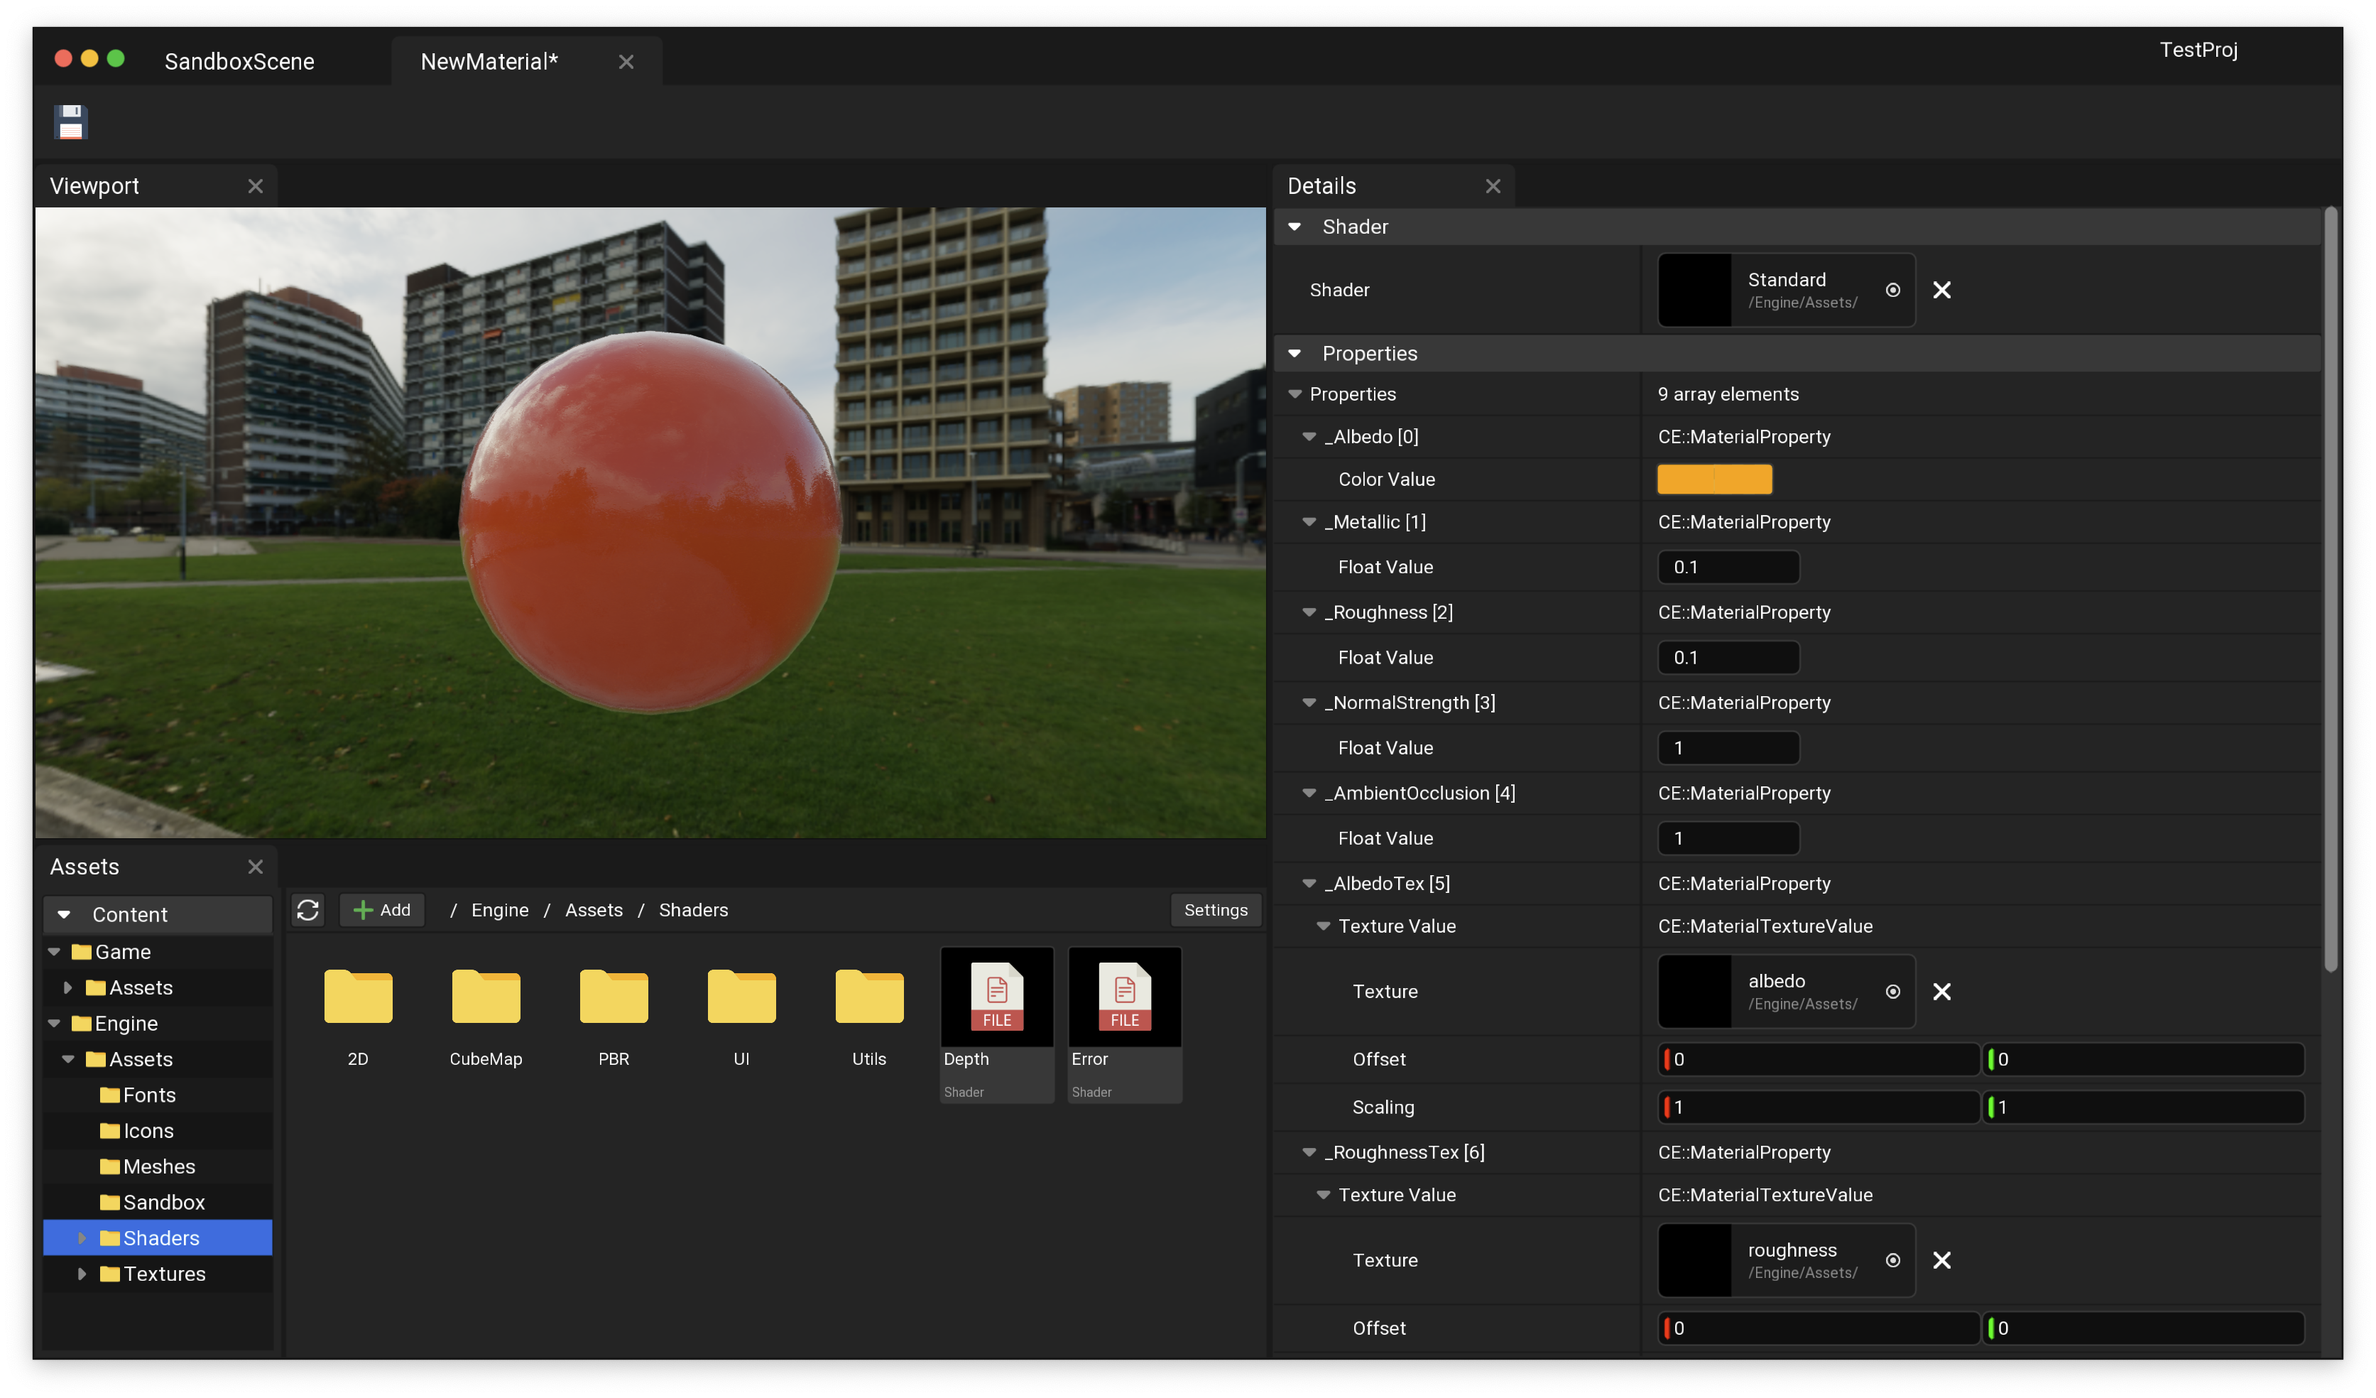
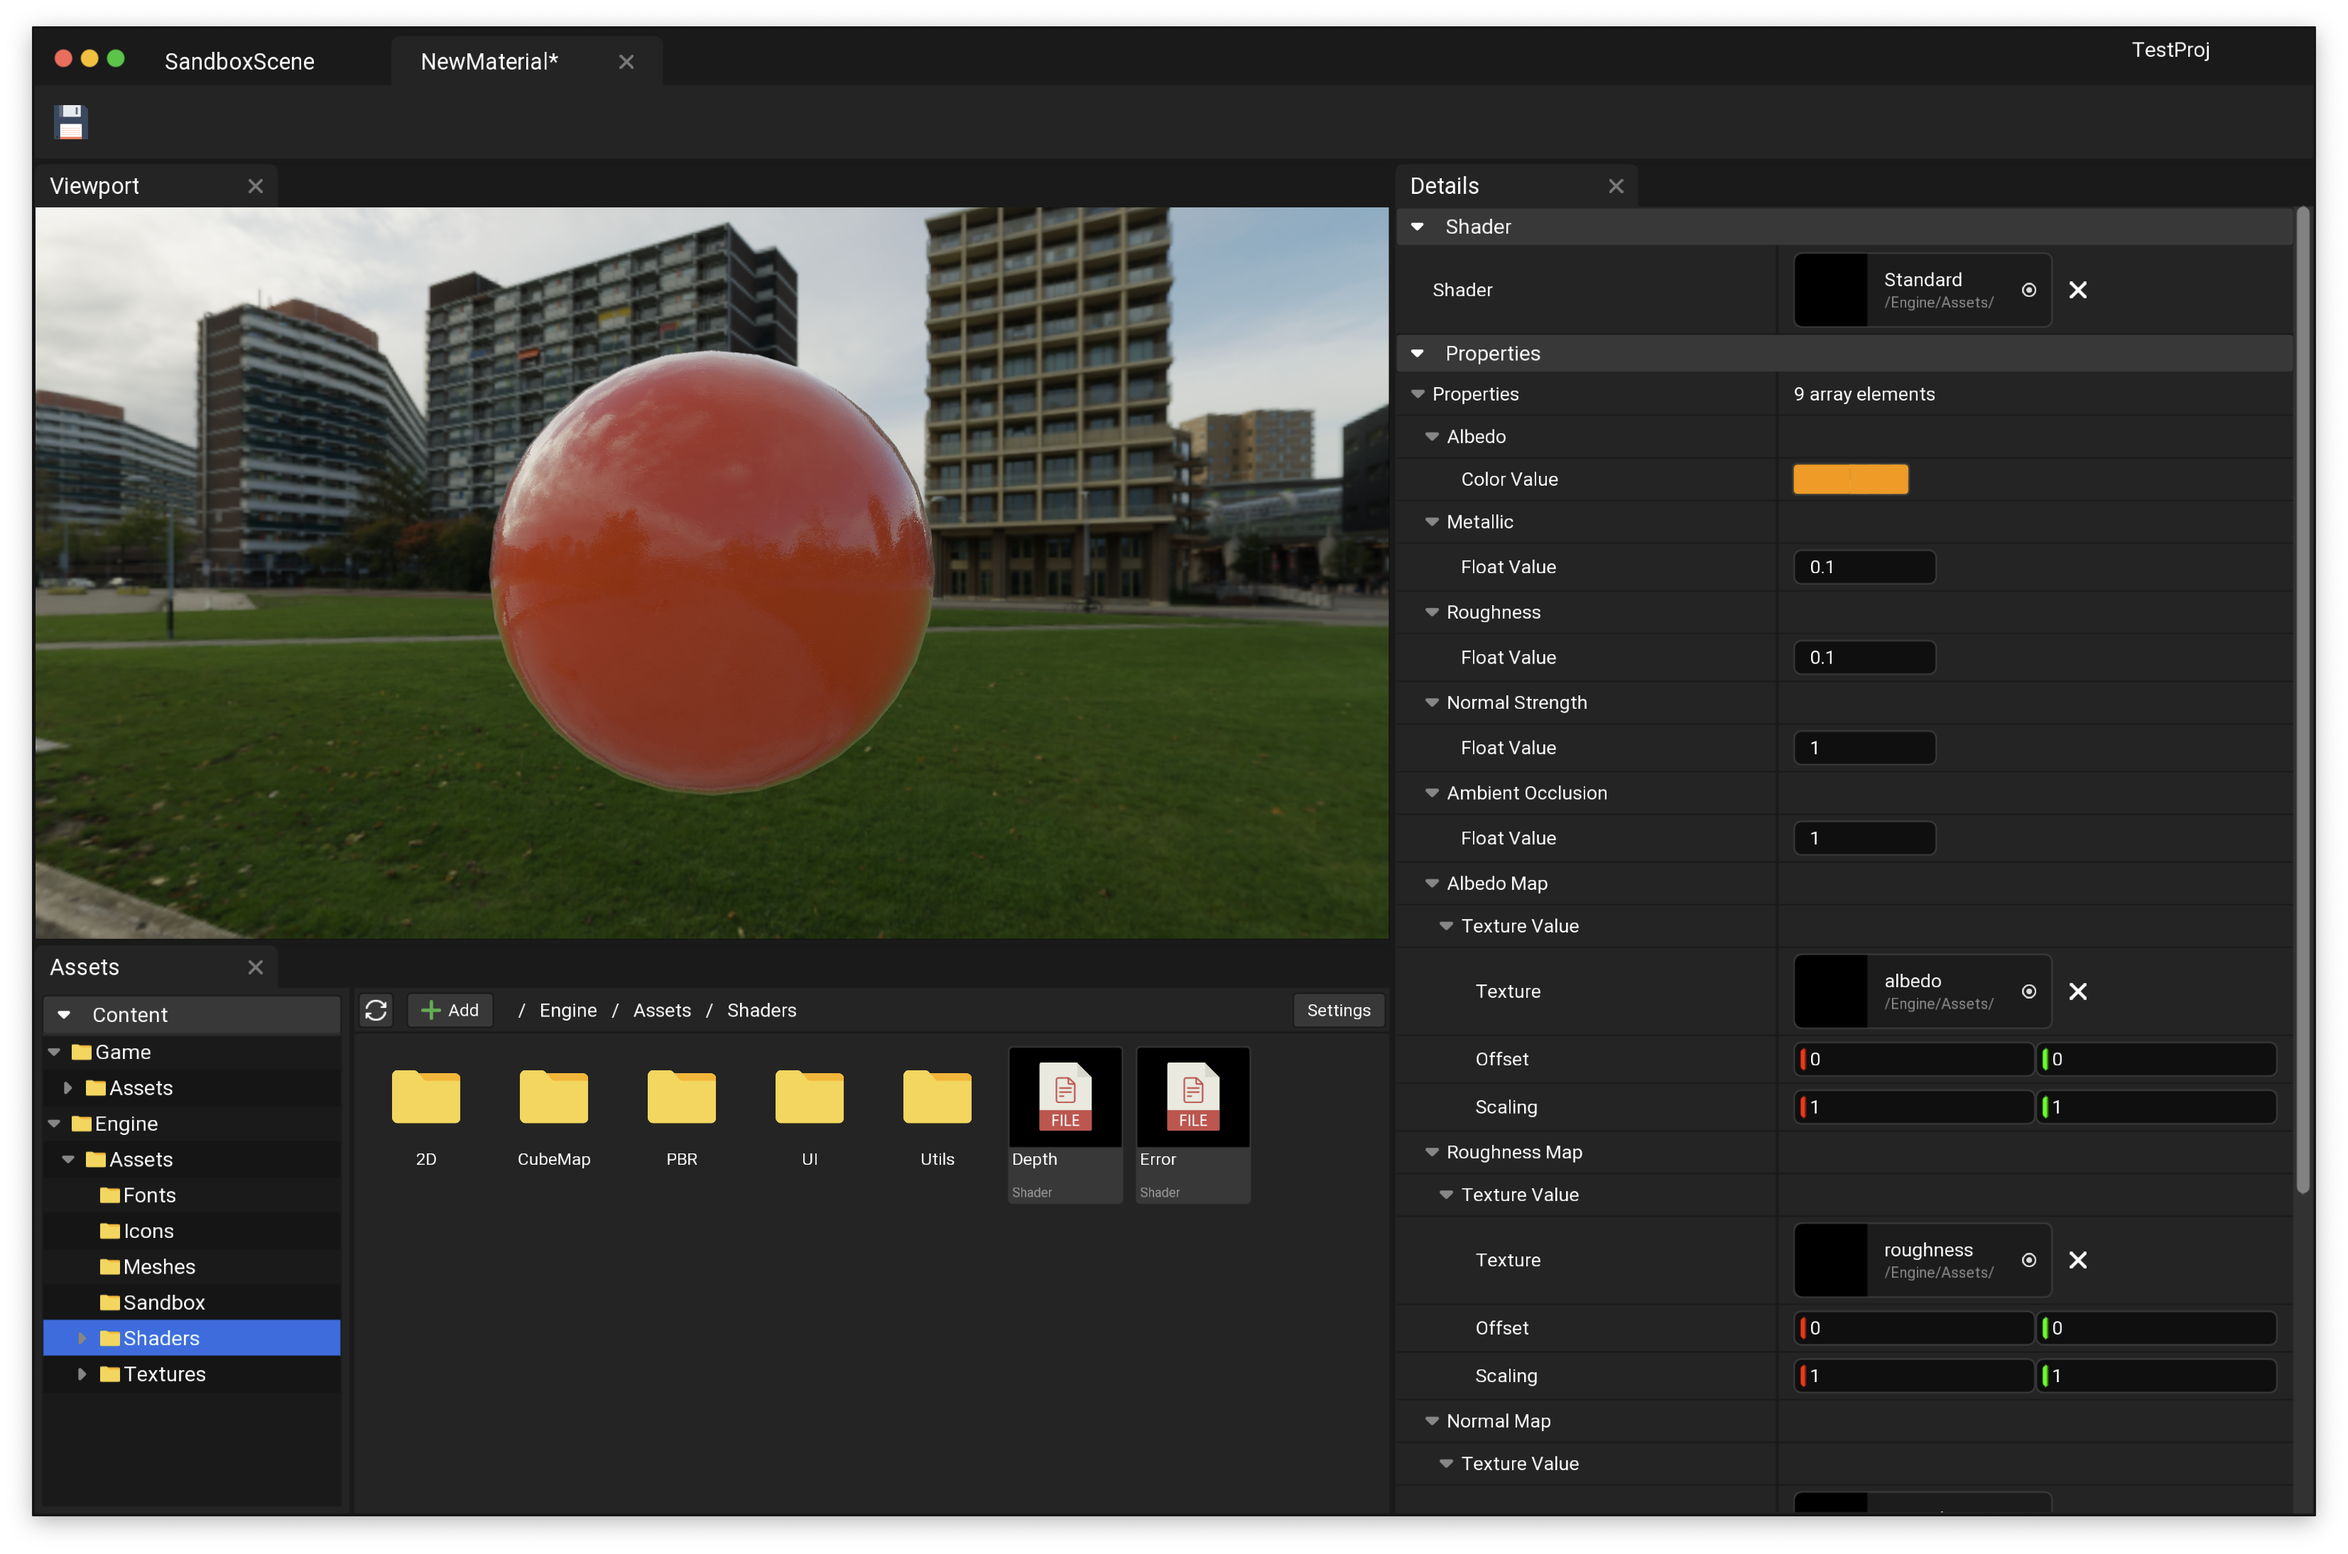
material editor improvements

diff --git a/Editor/Source/EditorCore/Private/Fusion/PropertyEditor/PropertyEditor.cpp b/Editor/Source/EditorCore/Private/Fusion/PropertyEditor/PropertyEditor.cpp
@@ -312,6 +312,17 @@ namespace CE::Editor
             return;
         }
 
+        if (field->HasAttribute("StructTypeName") && field->GetAttribute("StructTypeName").IsString())
+        {
+            hasStructTypeNameOverride = true;
+            structTypeNameOverride = field->GetAttribute("StructTypeName").GetStringValue();
+        }
+        else
+        {
+            hasStructTypeNameOverride = false;
+            structTypeNameOverride = {};
+        }
+
         showCondition.valid = false;
         showCondition.isEquality = false;
         showCondition.comparisonFieldName = "";
@@ -354,11 +365,16 @@ namespace CE::Editor
         if (fieldDeclType->IsStruct()) // - Struct Editor -
         {
             StructType* structType = (StructType*)fieldDeclType;
+            String structTypeName = structType->GetName().GetString();
+            if (hasStructTypeNameOverride)
+            {
+                structTypeName = structTypeNameOverride.GetString();
+            }
 
             right->AddChild(
                 FNew(FLabel)
                 .FontSize(10)
-                .Text(structType->GetName().GetString())
+                .Text(structTypeName)
                 .Name("StructTypeLabel")
             );
 

diff --git a/Editor/Source/EditorCore/Private/Fusion/PropertyEditor/ArrayPropertyEditor.cpp b/Editor/Source/EditorCore/Private/Fusion/PropertyEditor/ArrayPropertyEditor.cpp
@@ -142,10 +142,12 @@ namespace CE::Editor
 
         if (field->HasAttribute("ArrayElementTypeName") && field->GetAttribute("ArrayElementTypeName").IsString())
         {
+            hasElementTypeNameOverride = true;
             elementTypeNameOverride = field->GetAttribute("ArrayElementTypeName").GetStringValue();
         }
         else
         {
+            hasElementTypeNameOverride = false;
             elementTypeNameOverride = {};
         }
 
@@ -286,7 +288,7 @@ namespace CE::Editor
                 FHorizontalStack& left = *propertyEditor->GetLeft();
             	FHorizontalStack& right = *propertyEditor->GetRight();
 
-                if (arrayElements[i]->IsStructField() && elementTypeNameOverride.NotEmpty())
+                if (arrayElements[i]->IsStructField() && hasElementTypeNameOverride)
                 {
                     Ref<FLabel> typeLabel = right.FindChildByName<FLabel>("StructTypeLabel");
                     if (typeLabel)

diff --git a/Engine/Source/Engine/Public/Engine/MaterialInterface.h b/Engine/Source/Engine/Public/Engine/MaterialInterface.h
@@ -57,6 +57,9 @@ namespace CE
         Name name{};
 
         FIELD()
+        Name displayName{};
+
+        FIELD()
         MaterialPropertyType propertyType = MaterialPropertyType::None;
 
         FIELD(EditAnywhere, DisplayName = "UInt Value", ShowIf = ".propertyType == UInt")
@@ -77,7 +80,7 @@ namespace CE
         FIELD()
         Matrix4x4 matrixValue = {};
 
-        FIELD(EditAnywhere, ShowIf = ".propertyType == Texture")
+        FIELD(EditAnywhere, ShowIf = ".propertyType == Texture", StructTypeName = "")
         MaterialTextureValue textureValue = {};
     };
 

diff --git a/Engine/Source/Engine/Public/Engine/Material.h b/Engine/Source/Engine/Public/Engine/Material.h
@@ -55,7 +55,7 @@ namespace CE
         FIELD(EditAnywhere, Category = "Shader", CategoryOrder = 0)
         Ref<CE::Shader> shader = nullptr;
 
-        FIELD(EditAnywhere, Category = "Properties", CategoryOrder = 1, ArrayEditorMode = "Static", ArrayElementName = ".name [{}]")
+        FIELD(EditAnywhere, Category = "Properties", CategoryOrder = 1, ArrayEditorMode = "Static", ArrayElementName = ".displayName", ArrayElementTypeName = "")
         Array<MaterialProperty> properties{};
 
         bool valuesModified = true;

diff --git a/Engine/Source/Core/Public/RTTI/AutoRTTI.h b/Engine/Source/Core/Public/RTTI/AutoRTTI.h
@@ -35,6 +35,9 @@ enum AttributeSpecifiers
 	//! @brief A macro to customize TypeName display for each array element.
 	ArrayElementTypeName,
 
+	//! @brief A macro to customize TypeName display for a struct field.
+	StructTypeName,
+
 	//! @brief A macro to disable visibility of an editor property based on a sibling field's value.
 	//! Example: FIELD(EditAnywhere, ShowIf = ".propertyType == UInt")
 	ShowIf,

diff --git a/Editor/Source/EditorCore/Private/Fusion/Style/EditorStyle.cpp b/Editor/Source/EditorCore/Private/Fusion/Style/EditorStyle.cpp
@@ -316,7 +316,7 @@ namespace CE::Editor
 
 		menuPopup->background = Color::RGBA(56, 56, 56);
 		menuPopup->borderColor = Color::RGBA(26, 26, 26);
-		menuPopup->borderWidth = 0.5f;
+		menuPopup->borderWidth = 0.75f;
 		menuPopup->itemPadding = Vec4(10, 5, 10, 5);
 		menuPopup->itemHoverBackground = highlightColor;
 		menuPopup->separatorColor = menuPopup->separatorTitleColor = Color::RGBA(106, 106, 106);

diff --git a/Editor/Source/EditorCore/Public/Fusion/PropertyEditor/PropertyEditor.h b/Editor/Source/EditorCore/Public/Fusion/PropertyEditor/PropertyEditor.h
@@ -111,6 +111,9 @@ namespace CE::Editor
         WeakRef<PropertyEditor> parentEditor;
         WeakRef<ObjectEditor> parentObjectEditor;
 
+        bool hasStructTypeNameOverride = false;
+        CE::Name structTypeNameOverride;
+
     public: // - Fusion Properties - 
 
         FUSION_PROPERTY_WRAPPER2(Text, fieldNameLabel, FieldNameText);

diff --git a/Editor/Source/EditorCore/Public/Fusion/PropertyEditor/ArrayPropertyEditor.h b/Editor/Source/EditorCore/Public/Fusion/PropertyEditor/ArrayPropertyEditor.h
@@ -58,6 +58,7 @@ namespace CE::Editor
         f32 fixedInputWidth = -1;
         ArrayEditMode arrayEditMode = ArrayEditMode::Default;
         String elementTypeNameOverride = {};
+        bool hasElementTypeNameOverride = false;
         String elementNameOverride = {};
 
         Array<Ptr<FieldType>> arrayElements;

diff --git a/Engine/Source/Engine/Private/Engine/Material.cpp b/Engine/Source/Engine/Private/Engine/Material.cpp
@@ -93,6 +93,7 @@ namespace CE
 		        }
 
                 property.name = defaultProp.name;
+	            property.displayName = defaultProp.displayName;
 
                 properties.Add(property);
                 propertyMap[property.name] = property;
